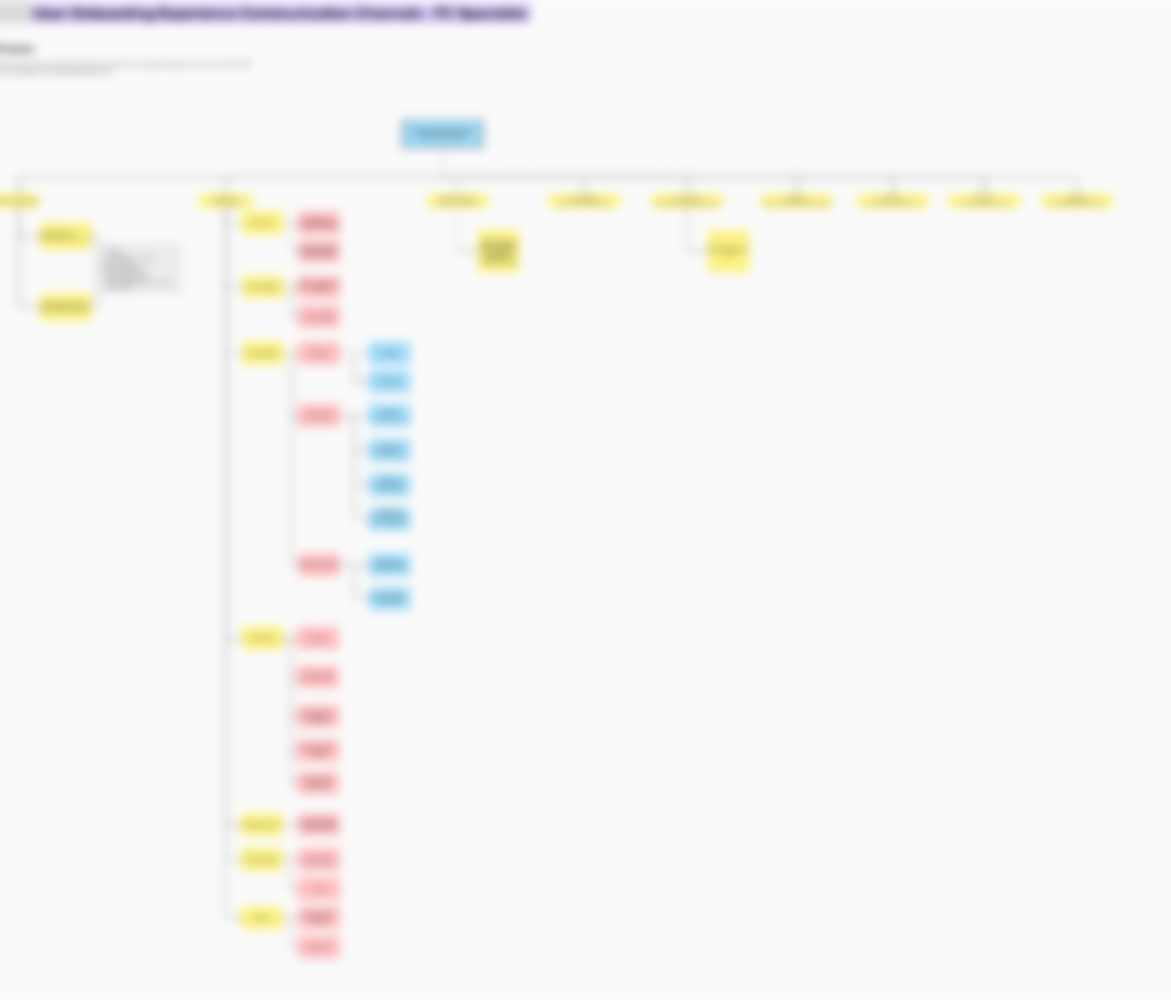
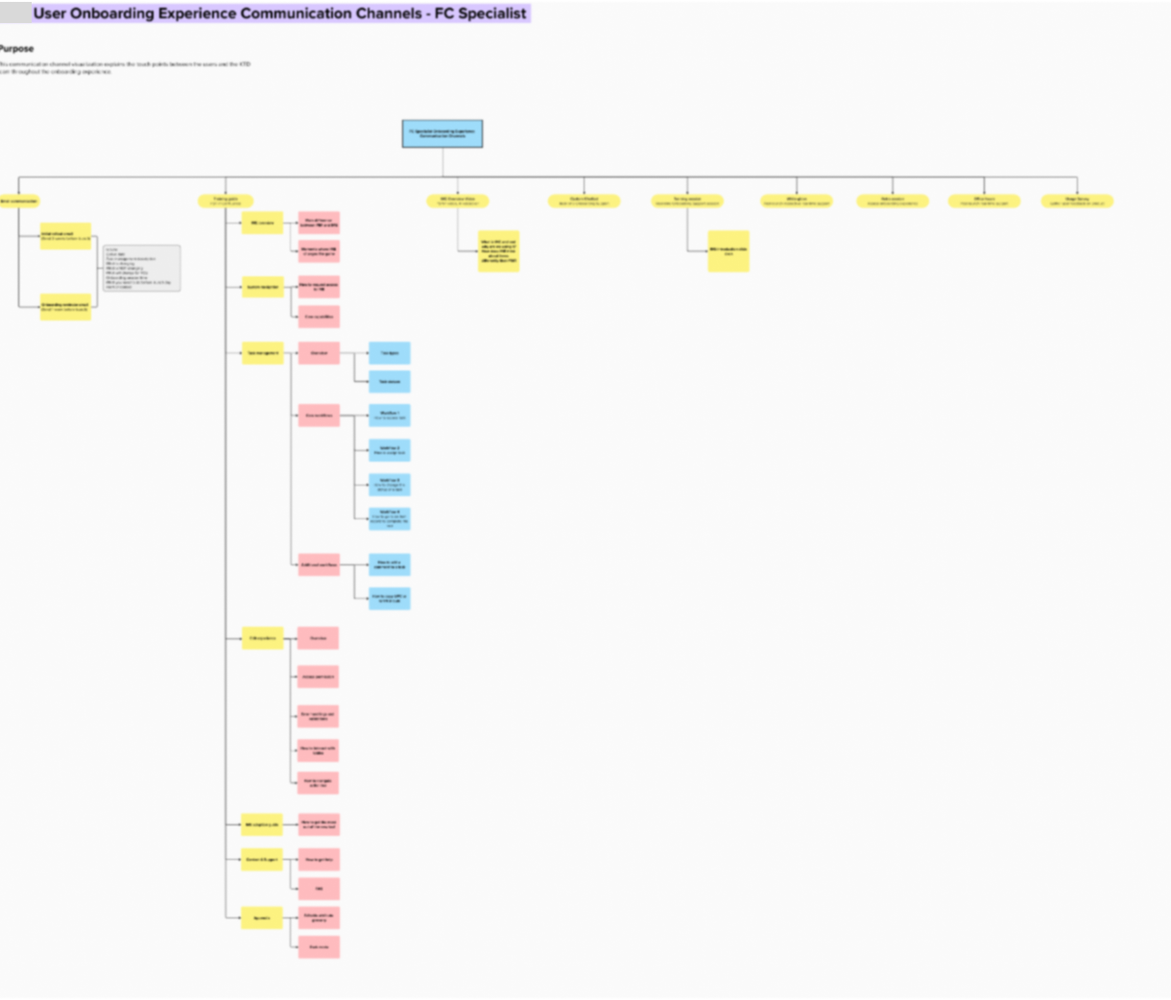
Expand Kroger case study: cross-functional alignment, deeper three-layer breakdown, system prompt design, and a maintenance/living-project section

diff --git a/projects/kroger-onboarding.html b/projects/kroger-onboarding.html
@@ -4,7 +4,7 @@
 <meta charset="UTF-8" />
 <meta name="viewport" content="width=device-width, initial-scale=1.0" />
 <title>Kroger Enterprise Onboarding — Franklin Cheng</title>
-<meta name="description" content="A Double Diamond process to design the onboarding and transition experience for Kroger's enterprise item-management platform, including a role-aware AI assistant." />
+<meta name="description" content="A Double Diamond process to design the onboarding and transition experience for Kroger's enterprise item-management platform, including a role-aware AI assistant and a living maintenance framework." />
 <link rel="icon" href="data:,">
 <link rel="preconnect" href="https://fonts.googleapis.com">
 <link rel="preconnect" href="https://fonts.gstatic.com" crossorigin>
@@ -31,13 +31,13 @@
   <div class="wrap" style="max-width: 820px;">
     <div class="tags"><span class="tag industry">Industry · Internship</span></div>
     <h1>Bridging Legacy to Modern: Onboarding for Kroger's Enterprise Item Platform</h1>
-    <p class="lede">Item data is the backbone of Kroger's business. I ran a Double Diamond process — from SME interviews through a shipped three-layer support framework — to design the onboarding and transition experience that carries teams off fragmented legacy systems and spreadsheets and into a single, centralized item-management platform.</p>
+    <p class="lede">Item data is the backbone of Kroger's business. I ran a Double Diamond process — from cross-functional alignment through SME interviews to a shipped three-layer support framework — to design the onboarding and transition experience that carries teams off fragmented legacy systems and spreadsheets and into a single, centralized item-management platform.</p>
 
     <div class="case-meta">
       <div><div class="label">Role</div><div class="value">Product Design Intern</div></div>
       <div><div class="label">Organization</div><div class="value">The Kroger Co.</div></div>
       <div><div class="label">Duration</div><div class="value">May 2026 – Present</div></div>
-      <div><div class="label">Methods</div><div class="value">Double Diamond — interviews, affinity mapping, JTBD, blueprinting, UAT</div></div>
+      <div><div class="label">Methods</div><div class="value">Stakeholder alignment, Double Diamond, system-prompt design, maintenance planning</div></div>
     </div>
   </div>
 </header>
@@ -46,13 +46,13 @@
   <div class="wrap">
     <span class="eyebrow">Overview</span>
     <h2 style="margin-bottom:14px;">What I did</h2>
-    <p class="lede">I led the end-to-end design of the onboarding and transition experience for Kroger's new enterprise item-management platform. Working across eight distinct user groups, I ran discovery interviews and contextual inquiry, synthesized the findings into per-group problem definitions, mapped the support structure the transition would need, validated it directly with users, then shipped a three-layer framework — a main guide, role-specific guides, and a role-aware AI assistant.</p>
+    <p class="lede">I led the end-to-end design of the onboarding and transition experience for Kroger's new enterprise item-management platform (internally, IME). Working across eight distinct user groups, I aligned cross-functionally on timeline and dependencies, ran discovery interviews, synthesized findings into per-group problem definitions, mapped and validated a support structure, then shipped a three-layer framework — a main guide, role-specific guides, and a role-aware AI assistant — along with the maintenance structure for the team to keep it alive after I'm gone.</p>
 
     <div class="stat-row" style="grid-template-columns:repeat(4,1fr);">
-      <div class="stat-box"><div class="num">20+</div><div class="label">SMEs interviewed across the org during Discover</div></div>
-      <div class="stat-box"><div class="num">4 / 8</div><div class="label">user groups shipped this internship — baseline set for the rest by EOFY</div></div>
-      <div class="stat-box"><div class="num">50+</div><div class="label">cross-functional stakeholders aligned on the roadmap</div></div>
-      <div class="stat-box"><div class="num">3</div><div class="label">support layers shipped: guide, role-specific guides, AI assistant</div></div>
+      <div class="stat-box"><div class="num">4</div><div class="label">User Groups — developed onboarding material for 4 user groups</div></div>
+      <div class="stat-box"><div class="num">↻</div><div class="label">Onboarding Structure — designed and established a reusable structure for future rollouts</div></div>
+      <div class="stat-box"><div class="num">AI</div><div class="label">Faster Support, Powered by AI — a custom agent that tailors support to individual user needs</div></div>
+      <div class="stat-box"><div class="num">◈</div><div class="label">Maintenance Framework — centralized Confluence documentation and reusable file-conversion tools</div></div>
     </div>
   </div>
 </section>
@@ -67,8 +67,24 @@
       </div>
       <div class="content">
         <p>Every item's data — its attributes, pricing, packaging, distribution rules — determines everything downstream: what shows up at a distribution center, how it moves through the supply chain, and what a customer finds on the shelf at a Kroger store. Get that data wrong, or too slow, and the effects ripple across the entire business.</p>
-        <p>But the way that data actually gets managed today is fragmented: multiple legacy systems and countless spreadsheets, stitched together as much by institutional memory as by process. Kroger's modernization effort aims to retire those legacy systems and Excel-centered workflows in favor of a single, centralized item-management platform.</p>
+        <p>But the way that data actually gets managed today is fragmented: multiple legacy systems and countless spreadsheets, stitched together as much by institutional memory as by process. Kroger's modernization effort aims to retire those legacy systems and Excel-centered workflows — <strong>manual and fragmented</strong> — in favor of a single, centralized item-management platform that's <strong>unified and intuitive</strong>.</p>
         <p><strong>My project was to design the bridge between the two</strong> — the onboarding and transition experience that would carry each role-specific user group from the old way of working into the new one, without breaking the flow of a business that runs on this data every day.</p>
+      </div>
+    </div>
+
+    <div class="col">
+      <div class="colhead">
+        <span class="eyebrow">Cross-Functional Alignment</span>
+        <h2>Before the double diamond: aligning on the timeline</h2>
+      </div>
+      <div class="content">
+        <p>A project like this doesn't start with research — it starts with alignment. Before I ran any interviews, I worked with <strong>5 product managers and 3 product designers, across 2 separate teams</strong> — task management and edit experience — to align on the onboarding timeline and the dependencies between our workstreams. Onboarding couldn't be designed in a vacuum: it had to land in sync with each team's own launch dates, feature freezes, and cutover plans.</p>
+        <p>That meant constant, ongoing communication — not a single kickoff meeting. I stayed in the loop on priority shifts and shipped-date changes from both teams so the onboarding plan never fell out of sync with what was actually being built.</p>
+
+        <figure class="figure">
+          <img src="../assets/img/kroger/onboarding-planning-meeting.png" alt="Microsoft Teams call reviewing a transition-plan spreadsheet, showing the eight PIM user groups and a launch timeline with pre-launch, launch, and post-launch milestones" />
+          <figcaption>Planning the transition timeline with cross-functional partners — the eight user groups and the pre-launch → launch → post-launch milestones we aligned on together.</figcaption>
+        </figure>
       </div>
     </div>
 
@@ -78,7 +94,7 @@
         <h2>A Double Diamond, run twice</h2>
       </div>
       <div class="content">
-        <p>I structured the project as a Double Diamond: one diamond to understand the problem, one to build the solution. Discover and Define converged on a clear picture of who was affected and how they actually worked today. Develop and Deliver diverged again to design the support structure, validate it with real users, then ship and iterate.</p>
+        <p>With the timeline aligned, I structured the research and design work as a Double Diamond: one diamond to understand the problem, one to build the solution. Discover and Define converged on a clear picture of who was affected and how they actually worked today. Develop and Deliver diverged again to design the support structure, validate it with real users, then ship and iterate.</p>
 
         <div class="diamond-wrap">
           <svg width="100%" viewBox="0 0 920 214" role="img" aria-label="Double Diamond process: Discover, Define, Develop, Deliver">
@@ -128,6 +144,50 @@
           <img src="../assets/img/kroger/research-session.png" alt="Notes from a contextual inquiry session with a user group" />
           <figcaption>Contextual inquiry with a user group — watching how they actually work in the legacy system, not just how the process says they should.</figcaption>
         </figure>
+
+        <h3>Who I talked to</h3>
+        <p>The SMEs I interviewed spanned data integrity, retail operations, e-commerce fulfillment, and digital/product teams — the full width of people whose work touches item data before it ever reaches a shelf.</p>
+
+        <div class="role-groups">
+          <div class="role-group">
+            <h4>Corp Data Integrity (Dint)</h4>
+            <div class="role-pills">
+              <span class="role-pill">Data Integrity Center Operations Mgr</span>
+              <span class="role-pill">Sr Strategic Data Integrity & Technology Mgr</span>
+              <span class="role-pill">Data Integrity Center Technology Mgr</span>
+              <span class="role-pill">MDM Attribute Manage</span>
+              <span class="role-pill">Sr Item Operations & Control Manager</span>
+              <span class="role-pill">Item Compliance Manager</span>
+            </div>
+          </div>
+          <div class="role-group">
+            <h4>Corp Retail Operations</h4>
+            <div class="role-pills">
+              <span class="role-pill">Reg Ld Pricing</span>
+              <span class="role-pill">Data Quality Sup</span>
+              <span class="role-pill">Director Data Integ</span>
+            </div>
+          </div>
+          <div class="role-group">
+            <h4>Corp Ecommerce</h4>
+            <div class="role-pills">
+              <span class="role-pill">Regional Fulfillment Operations Support Mgr</span>
+              <span class="role-pill">Sr Inventory Control & Ops Support Mgr</span>
+            </div>
+          </div>
+          <div class="role-group">
+            <h4>Digital &amp; Product</h4>
+            <div class="role-pills">
+              <span class="role-pill">Web Content Editor</span>
+              <span class="role-pill">Sr Data Governance Mgr</span>
+              <span class="role-pill">Digital Services Coordinator</span>
+              <span class="role-pill">Digital Item Setup Analyst</span>
+              <span class="role-pill">Digital Process Manager</span>
+              <span class="role-pill">Product Manager &amp; Senior Product Manager – SME</span>
+              <span class="role-pill">Dgtl Mrchndsng Spclst</span>
+            </div>
+          </div>
+        </div>
       </div>
     </div>
 
@@ -159,7 +219,7 @@
           <figcaption>The full JTBD board for one user group — eight jobs, each broken into situation, motivation, and what success looks like.</figcaption>
         </figure>
 
-        <figure class="figure" style="max-width:320px;">
+        <figure class="figure narrow">
           <img src="../assets/img/kroger/jtbd-card-example.png" alt="A single Jobs To Be Done card, zoomed in, reading: as a FC specialist, when I am new and don't understand how it differs, I want to quickly understand how my work is structured, so that I can confidently start completing tasks without relying on external documents or asking others, by first learning the core workflow." />
           <figcaption>One JTBD card, zoomed in — the format I used across every job: situation, motivation, and what success looks like.</figcaption>
         </figure>
@@ -185,18 +245,16 @@
           </svg>
         </div>
         <h2>Mapping the transition before designing the guide</h2>
-        <p>I diverged again to develop a high-level structure for the onboarding support itself. Two artifacts drove this: a communication-channel diagram, mapping every touchpoint a user has during onboarding, and an experience workflow blueprint, laying out the transition phase by phase — pre-launch, launch day, and post-launch — with the touchpoint, user action, and support action at each step.</p>
+        <p>I diverged again to develop a high-level structure for the onboarding support itself. Two artifacts drove this: a communication-channel diagram, mapping every touchpoint a user has during onboarding, and an experience workflow blueprint, laying out the transition phase by phase — pre-launch, launch day, and post-launch — with the touchpoint, user action, and support action mapped in separate swimlanes at each step.</p>
 
-        <div class="figure-row">
-          <figure class="figure">
-            <img src="../assets/img/kroger/comm-channel-diagram.png" alt="Communication channel diagram mapping every touchpoint a user has during onboarding" />
-            <figcaption>Mapping every channel a user touches during onboarding — a prerequisite for knowing where a guide or the AI assistant actually needs to show up.</figcaption>
-          </figure>
-          <figure class="figure">
-            <img src="../assets/img/kroger/workflow-blueprint.png" alt="Experience workflow blueprint spanning pre-launch, launch day, and post-launch, with phase, touchpoint, user action, and support action swimlanes" />
-            <figcaption>The onboarding experience blueprint — phase, touchpoint, user action, and support action, mapped from pre-launch through post-launch.</figcaption>
-          </figure>
-        </div>
+        <figure class="figure">
+          <img src="../assets/img/kroger/comm-channel-diagram.png" alt="Communication channel diagram mapping every touchpoint a user has during onboarding" />
+          <figcaption>Mapping every channel a user touches during onboarding — a prerequisite for knowing where a guide or the AI assistant actually needs to show up.</figcaption>
+        </figure>
+        <figure class="figure">
+          <img src="../assets/img/kroger/workflow-blueprint.png" alt="Experience workflow blueprint spanning pre-launch, launch day, and post-launch, with phase, calendar timeline, process steps, touchpoint, user action, support action, and support actor swimlanes" />
+          <figcaption>The onboarding experience blueprint — phase, timeline, touchpoint, user action, support action, and support actor, each its own swimlane from pre-launch through post-launch.</figcaption>
+        </figure>
 
         <p>Once I had a directional structure, I scheduled sessions with each user group to run user-acceptance testing: validating that I'd understood their legacy workflow correctly, and checking whether the proposed support structure actually matched what they needed.</p>
 
@@ -226,47 +284,128 @@
           </svg>
         </div>
         <h2>Shipping the three-layer framework, then iterating</h2>
-        <p>Once the structure was validated, I fleshed it out into the full <strong>three-layer learning support framework</strong>:</p>
-        <ul>
-          <li><strong>A main guide</strong> — the shared mental model every role needs, showing where the platform adds value against the old, error-prone way of working.</li>
-          <li><strong>Role-specific guides</strong> — tailored walkthroughs for each user group, so a merchandiser and a supply-chain analyst aren't taught the platform through the same lens.</li>
-          <li><strong>A role-aware AI onboarding assistant</strong> — an in-platform agent I configured with custom prompts and knowledge context, so users could ask plain-language questions about their own workflows instead of hunting through documentation.</li>
-        </ul>
+        <p>Once the structure was validated, I fleshed it out into the full <strong>three-layer learning support framework</strong> — each layer answering a different question a user actually has, at a different moment in their onboarding.</p>
+
+        <h3>Layer 1 — The Overview Guide</h3>
+        <p>The main guide is built for both current legacy-tool users and brand-new hires, and it's structured around three questions: <em>What is the new platform? How has the experience changed? What are the best practices for working efficiently in it?</em> It covers the core concepts, navigation, and workflows every role needs before anything role-specific.</p>
 
         <figure class="figure">
           <img src="../assets/img/kroger/guide-main.png" alt="Page from the main onboarding guide showing a before/after comparison of a workflow moment, with the platform name redacted." />
           <figcaption>From the main guide — each "moment" pairs the old, error-prone workflow against the new one, in the user's own words.</figcaption>
         </figure>
 
-        <div class="figure-row">
-          <figure class="figure">
+        <p>I designed the guide to be interactive, not a static PDF: a clickable table of contents for jumping straight to the section you need, dark mode for readability, and inline links out to the reference documents each topic is drawn from.</p>
+
+        <div class="figure-row asym">
+          <figure class="figure narrow">
             <img src="../assets/img/kroger/guide-cover.png" alt="Cover page of the onboarding guide" />
-            <figcaption>Main guide cover</figcaption>
+            <figcaption>Guide cover</figcaption>
           </figure>
           <figure class="figure">
-            <img src="../assets/img/kroger/guide-user-specific.png" alt="Table of contents for a role-specific onboarding guide" />
-            <figcaption>One of the role-specific guide tracks</figcaption>
+            <img src="../assets/img/kroger/guide-toc.png" alt="Interactive, clickable table of contents for the main onboarding guide" />
+            <figcaption>Clickable table of contents — every entry jumps straight to that section.</figcaption>
           </figure>
         </div>
 
-        <p>I had users test directly with the guide and the chatbot, then iterated the content and the assistant's responses based on their feedback.</p>
+        <figure class="figure">
+          <img src="../assets/img/kroger/guide-dark-mode.png" alt="The same guide page rendered in dark mode for readability" />
+          <figcaption>Dark mode — the same content, built to be comfortable to read during a long onboarding session.</figcaption>
+        </figure>
+
+        <h3>Layer 2 — Role-Specific Guides</h3>
+        <p>The main guide gives everyone the same mental model; the role-specific guides answer a narrower, more personal question: <em>If I were a new hire today, how would I actually perform my job in the new system — and how do I do it most efficiently?</em> Each of the four completed tracks walks through that role's real workflows, not a generic tour of the platform.</p>
+
+        <figure class="figure">
+          <img src="../assets/img/kroger/guide-user-specific.png" alt="Table of contents for a role-specific onboarding guide" />
+          <figcaption>One of the role-specific guide tracks — workflows written from that role's own tasks, not the platform's feature list.</figcaption>
+        </figure>
+
+        <h3>Layer 3 — The Custom AI Assistant</h3>
+        <p>Guides solve the "I need to learn this" problem. They don't solve the "I need an answer right now" problem. Users onboarding onto a new system are still busy doing their jobs — they don't want to search through a document to find one field's validation rule. The assistant exists to answer the question <em>What's the fastest way to get help?</em>, giving on-demand guidance, troubleshooting, and direct access to reference documentation, without anyone having to leave their workflow.</p>
+
+        <div class="decision-box">
+          <h4>Choosing the platform: Copilot Studio vs. a custom-built agent</h4>
+          <p style="margin-bottom:10px;">I first explored building the assistant in Microsoft Copilot Studio. In testing, I ran into blocking issues — a knowledge source blocked by data policy, and conflicting data-policy groups preventing publication — that made it a real feasibility and data-security risk for handling internal item data.</p>
+          <figure class="figure" style="margin:14px 0;">
+            <img src="../assets/img/kroger/copilot-studio-blockers.png" alt="Copilot Studio agent status panel showing two blocking errors: a knowledge source blocked by data policy, and items blocked by conflicting data policy groups" />
+            <figcaption>Copilot Studio blocked publication over data-policy conflicts — the feasibility and data-security risk that ruled it out.</figcaption>
+          </figure>
+          <p style="margin-bottom:0;">I opted instead for Kroger's own internal custom-agent platform. It sidestepped the data-policy conflicts, kept everything inside Kroger's existing security boundary, and was the more cost-effective path to a production assistant.</p>
+        </div>
 
         <figure class="figure">
           <img src="../assets/img/kroger/custom-agent.png" alt="Configuration screen for the custom AI onboarding assistant, showing system prompt and user instructions fields, with the platform name redacted." />
-          <figcaption>Configuring the onboarding assistant — system prompt, user-facing instructions, and knowledge context.</figcaption>
+          <figcaption>Configuring the onboarding assistant on Kroger's internal custom-agent platform — system prompt, user-facing instructions, and knowledge context.</figcaption>
         </figure>
+
+        <h4>Designing the system prompt</h4>
+        <p>The assistant is only as good as the behavior I write into it. I structured the system prompt around context, users, and core capabilities (onboarding support, workflow guidance, reference support, troubleshooting), then went deep on conversation flow, tone, and — critically — where the assistant should <em>stop</em>.</p>
+
+        <figure class="figure">
+          <img src="../assets/img/kroger/system-prompt-toc.png" alt="Table of contents for the onboarding assistant's system prompt, covering context, users, core capabilities, conversation flow, output guidelines including tone and style, cross-cultural sensitivity, guardrails and scope, and offramps" />
+          <figcaption>The system prompt's own table of contents — tone &amp; style, guardrails, and offramps are first-class sections, not an afterthought.</figcaption>
+        </figure>
+
+        <p><strong>Tone and capability.</strong> The output guidelines define the assistant's voice and style directly — how formal to be, how to phrase corrections, how to stay consistent across a long conversation — plus a dedicated cross-cultural sensitivity section, since the assistant supports a workforce that isn't culturally uniform.</p>
+
+        <p><strong>Off-ramps.</strong> I designed explicit rules for when the assistant should redirect rather than answer: out-of-scope Kroger systems, features not documented in the training guide, bug reports, and access disputes each get their own acknowledge → redirect → engage pattern, with example phrasing so the tone stays consistent even when the assistant is saying "I can't help with that."</p>
+
+        <figure class="figure">
+          <img src="../assets/img/kroger/system-prompt-offramps.png" alt="System prompt section on offramps, showing scope enforcement, out-of-scope topic handling, and hallucination prevention rules with example redirect phrasing" />
+          <figcaption>Offramps — scope enforcement and out-of-scope handling, written with example phrasing so the assistant redirects consistently instead of guessing.</figcaption>
+        </figure>
+
+        <p><strong>Image handling.</strong> Users can upload screenshots of the platform to ask questions, so I wrote explicit rules for how the assistant should interpret them: describe what it sees factually, map it to the relevant guide, read validation states from visual cues like field color and icon — and never guess at content it can't clearly read.</p>
+
+        <figure class="figure">
+          <img src="../assets/img/kroger/system-prompt-image-handling.png" alt="System prompt section on image and screenshot handling, listing what the assistant should and should not do when a user uploads a screenshot" />
+          <figcaption>Image-handling rules — what to do, what not to do, and how to ask for clarification when a screenshot can't be interpreted confidently.</figcaption>
+        </figure>
+
         <figure class="figure">
           <img src="../assets/img/kroger/workflow-before.png" alt="The onboarding assistant answering a specialist's question about an item's stickering status" />
           <figcaption>The assistant in use — answering a role-specific question in plain language instead of pointing to documentation.</figcaption>
         </figure>
 
-        <p>I presented the vision and the implementation roadmap to more than 50 cross-functional stakeholders across product, engineering, and business — and the framework itself is now the baseline the team will use to onboard the remaining four user groups by the end of the fiscal year.</p>
+        <p>I had users test directly with the guide and the chatbot, then iterated the content and the assistant's responses based on their feedback. I also presented the vision and the implementation roadmap to more than 50 cross-functional stakeholders across product, engineering, and business — and the framework itself is now the baseline the team will use to onboard the remaining four user groups by the end of the fiscal year.</p>
+      </div>
+    </div>
+
+    <div class="col">
+      <div class="colhead">
+        <span class="eyebrow">Maintenance</span>
+        <h2>A living project, not a one-time deliverable</h2>
+      </div>
+      <div class="content">
+        <p>An onboarding framework that only I can update isn't actually done. Before the internship ended, I built the maintenance structure so the internal team can keep extending it — to the remaining four user groups, and beyond — without needing me in the room.</p>
+
+        <p>I documented the assistant itself on Confluence: what it does, how to access it, and how to maintain it through the Edit Studio, so any team member can pick up ownership.</p>
+
+        <figure class="figure">
+          <img src="../assets/img/kroger/maintenance-confluence-agent.png" alt="Internal Confluence documentation page titled Custom AI Assistant, covering overview, what the assistant does, accessing the custom agent, and maintaining the custom agent" />
+          <figcaption>The internal Confluence page for the assistant — overview, capabilities, access steps, and maintenance instructions for the team.</figcaption>
+        </figure>
+
+        <p>Keeping the assistant's knowledge base current means the team needs a repeatable way to add new reference material. I documented a naming convention — <code>[Scope]_[Content]_[UploadDate]</code> — so every context document is traceable to the user group and topic it covers, and paired it with a custom Claude Code skill that converts source documents (Excel, PDF, Word, PowerPoint, images) into the clean Markdown format the assistant's knowledge base actually needs.</p>
+
+        <div class="figure-row asym">
+          <figure class="figure">
+            <img src="../assets/img/kroger/maintenance-confluence-naming.png" alt="Internal Confluence documentation page titled Context Documents, explaining the markdown conversion requirement and the naming convention format Scope underscore Content underscore UploadDate" />
+            <figcaption>Context-document naming convention and the markdown-conversion requirement, documented for the team.</figcaption>
+          </figure>
+          <figure class="figure">
+            <img src="../assets/img/kroger/maintenance-md-skill.png" alt="The doc-to-markdown-converter Claude Code skill file, defining strict behaviors for converting source documents into markdown" />
+            <figcaption>The reusable skill itself — strict, documented behaviors so any team member gets the same conversion result.</figcaption>
+          </figure>
+        </div>
+
+        <p>This structure is what makes the "4 of 8 user groups" number a starting point rather than a ceiling: the team has the process, the naming system, and the tooling to keep going.</p>
       </div>
     </div>
 
     <div class="reflect-box">
       <span class="eyebrow">Reflection</span>
-      <p style="margin-bottom:0;">This project is the clearest version of my journey I can point to. The same instinct that made me want to sit with people until I understood their situation — from anthropology — showed up as contextual inquiry and JTBD synthesis across 20+ SMEs. And the instinct to make something an audience could feel — from filmmaking — showed up in a guide and an assistant designed around each role's actual moment of confusion, not a generic tutorial. The Double Diamond just gave that instinct a shape I could repeat, group by group.</p>
+      <p style="margin-bottom:0;">This project is the clearest version of my journey I can point to. The same instinct that made me want to sit with people until I understood their situation — from anthropology — showed up as contextual inquiry and JTBD synthesis across 20+ SMEs and constant cross-functional alignment with PMs and designers. And the instinct to make something an audience could feel — from filmmaking — showed up in a guide and an assistant designed around each role's actual moment of confusion, not a generic tutorial. Building the maintenance structure at the end was its own kind of storytelling discipline: making sure the story keeps being told after I leave the room.</p>
     </div>
 
   </div>

diff --git a/assets/css/style.css b/assets/css/style.css
@@ -321,7 +321,29 @@ footer {
 .figure { margin: 26px 0; }
 .figure img { border: 1px solid var(--line); box-shadow: var(--shadow); }
 .figure figcaption { margin-top: 10px; font-size: 0.86rem; color: var(--ink-soft); font-family: var(--mono); }
-.figure-row { display: grid; grid-template-columns: 1fr 1fr; gap: 20px; }
+.figure-row { display: grid; grid-template-columns: 1fr 1fr; gap: 20px; align-items: start; }
+.figure-row.three { grid-template-columns: 1fr 1fr 1fr; }
+.figure-row.asym { grid-template-columns: 1fr 1.6fr; }
+.figure.narrow { max-width: 260px; }
+.figure.narrow img { margin: 0 auto; }
+
+.role-groups { display: grid; grid-template-columns: repeat(2, 1fr); gap: 22px; margin: 20px 0; }
+.role-group { background: var(--paper-raised); border: 1px solid var(--line); border-radius: var(--radius); padding: 18px 20px; }
+.role-group h4 { font-family: var(--mono); font-size: 0.78rem; text-transform: uppercase; letter-spacing: 0.05em; color: var(--sage); margin: 0 0 12px; }
+.role-pills { display: flex; flex-wrap: wrap; gap: 8px; }
+.role-pill { font-size: 0.82rem; color: var(--ink-soft); background: var(--paper); border: 1px solid var(--line); border-radius: 999px; padding: 5px 12px; }
+
+.decision-box { border: 1px dashed var(--line); border-radius: var(--radius); padding: 22px 24px; margin: 22px 0; background: rgba(46,71,86,0.03); }
+.decision-box h4 { margin: 0 0 8px; font-family: var(--serif); font-size: 1.05rem; }
+
+.case-body code {
+  font-family: var(--mono);
+  font-size: 0.88em;
+  background: rgba(46,71,86,0.08);
+  color: var(--ink-blue);
+  padding: 2px 7px;
+  border-radius: 5px;
+}
 
 .reflect-box {
   background: linear-gradient(160deg, rgba(193,80,46,0.06), rgba(79,99,87,0.05));
@@ -394,7 +416,8 @@ footer {
   .case-body .col { grid-template-columns: 1fr; gap: 14px; }
   .case-body .col .colhead { position: static; }
   .stat-row { grid-template-columns: 1fr; }
-  .figure-row { grid-template-columns: 1fr; }
+  .figure-row, .figure-row.three, .figure-row.asym { grid-template-columns: 1fr; }
+  .role-groups { grid-template-columns: 1fr; }
   .chapter { grid-template-columns: 1fr; gap: 10px; }
   .skills-grid { grid-template-columns: 1fr; }
   .diamond-legend { grid-template-columns: repeat(2, 1fr); }
